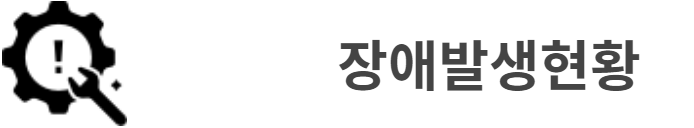
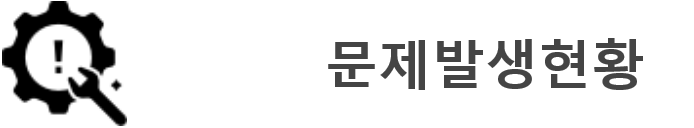
장애-->문제로 변경

Changed region(s): [[0.4539, 0.2812, 0.938, 0.7188]]

diff --git a/src/main/resources/static/html/admin/cm/cm11/CM1101M01.html b/src/main/resources/static/html/admin/cm/cm11/CM1101M01.html
@@ -59,7 +59,7 @@
 						<td style="text-align: left;"><h3 class="location"><span class="page_tit">수주실적(확정)</span></h3></td>
 						<td style="text-align: left;"><h3 class="location"><span class="page_tit">구매실적</span></h3></td>
 						<td style="text-align: left;"><h3 class="location"><span class="page_tit">일정지연현황</span></h3></td>
-						<td style="text-align: left;"><h3 class="location"><span class="page_tit">장애발생현황   </span>
+						<td style="text-align: left;"><h3 class="location"><span class="page_tit">문제발생현황   </span>
 						<span style="text-align:right"> (단위:
 							<select id="searchUnit" name="searchUnit" data-search="searchItem" onchange="gridView4.setData();">
 								<option value=100000000>억원</option>
@@ -359,7 +359,7 @@
 					columns: [
 			          	{key: "clntNm",     label: "고객사",   	align: "center",  width: "35%"},
 			          	{key: "ctrtNm",      label: "계약명",   	align: "left",  width: "40%"},
-			          	{key: "errCnt",     label: "장애건수",   	align: "right",  width: "13%", formatter:"money"},
+			          	{key: "errCnt",     label: "문제건수",   	align: "right",  width: "13%", formatter:"money"},
 			          	{key: "errCompCnt", label: "미완료",   	align: "right",  width: "*", formatter:"money"}
 			        ]
 				});

diff --git a/src/main/resources/static/mobile/admin/cm/cm11/M06.html b/src/main/resources/static/mobile/admin/cm/cm11/M06.html
@@ -86,7 +86,7 @@
                 <thead>
                     <tr>
                         <td style="text-align: left;">
-                            <h3 class="location"><span class="page_tit">장애발생현황</span></h3> (
+                            <h3 class="location"><span class="page_tit">문제발생현황</span></h3> (
                             <h7 class="location"><span class="page_tit" id="searchDttm">조회 일시 : </span></h7>)                       
                         </td>
                     </tr>
@@ -148,7 +148,7 @@
 					columns: [
 			          	{key: "clntNm",     label: "고객사",   	align: "center",  width: "35%"},
 			          	{key: "ctrtNm",      label: "계약명",   	align: "left",  width: "40%"},
-			          	{key: "errCnt",     label: "장애건수",   	align: "right",  width: "13%", formatter:"money"},
+			          	{key: "errCnt",     label: "문제건수",   	align: "right",  width: "13%", formatter:"money"},
 			          	{key: "errCompCnt", label: "미완료",   	align: "right",  width: "13%", formatter:"money"}
 			        ]
                 });

diff --git a/src/main/resources/static/mobile/admin/cm/cm11/M07.html b/src/main/resources/static/mobile/admin/cm/cm11/M07.html
@@ -84,7 +84,7 @@
             <table class="form-group popup_table" id="scndTable" >
                     <tr>
                         <td style="text-align: left;">
-                            <h3 class="location"><span class="page_tit">장애발생현황</span>
+                            <h3 class="location"><span class="page_tit">문제발생현황</span>
                         </td>
                     </tr>
                     <tr>
@@ -177,7 +177,7 @@
 											<td class="tg-rspn" colspan="3">${item.ctrtNm}</td>
 											</tr>
 											<tr>
-											<td class="tg-menu">장애건수</td>
+											<td class="tg-menu">문제건수</td>
 											<td class="tg-rspn">${item.errCnt}</td>
 											<td class="tg-menu">미완료</td>
 											<td class="tg-rspn">${item.errCompCnt}</td>

diff --git a/src/main/java/com/dksys/biz/admin/cm/cm11/CM11Ctr.java b/src/main/java/com/dksys/biz/admin/cm/cm11/CM11Ctr.java
@@ -176,7 +176,7 @@ public class CM11Ctr {
     	objCols1.put("type", "string");
     	objCols1.put("label", "고객사");
     	objCols2.put("type", "number");
-    	objCols2.put("label", "장애건수");
+    	objCols2.put("label", "문제건수");
     	objCols3.put("type", "number");
     	objCols3.put("label", "미완료");
 
